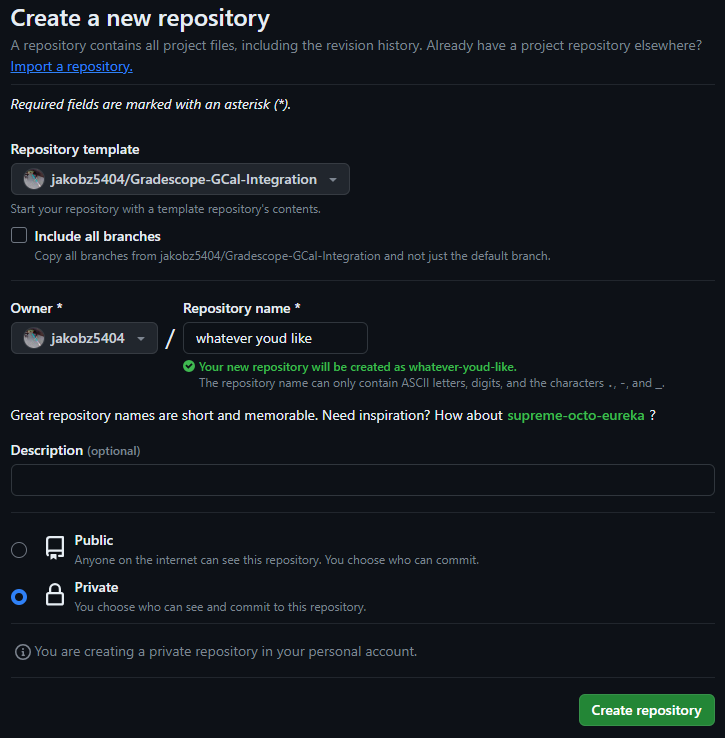
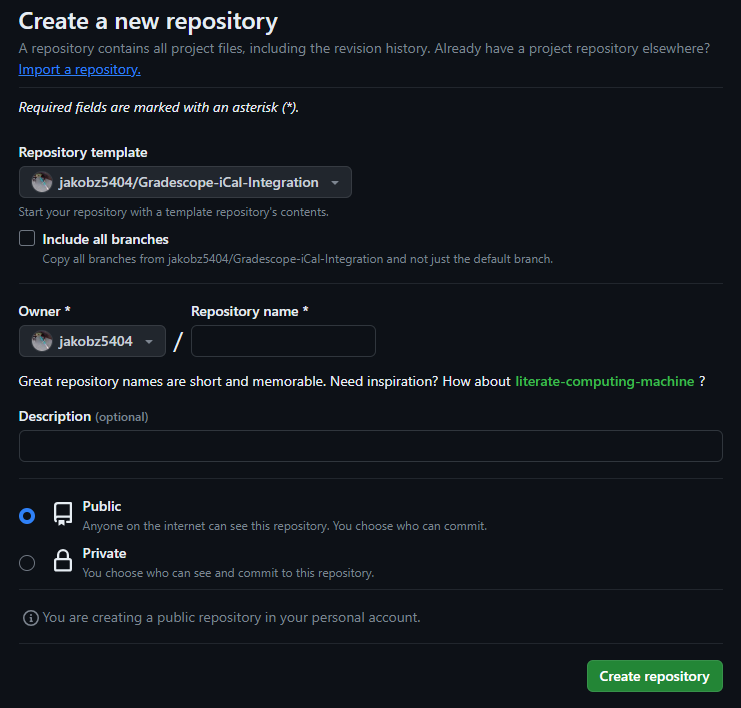
Upgraded to latest Gradescope-GCal-Integration version

diff --git a/README.md b/README.md
@@ -1,32 +1,30 @@
-## Gradescope iCalendar Integration
+# Gradescope iCalendar Integration
 
-All credit goes to [@tanjeffreyz](https://github.com/tanjeffreyz) for developing the web scraping service and most of the README. 
+All credit goes to [@tanjeffreyz](https://github.com/tanjeffreyz) for developing the web scraping service and most of the README. Also, [@zyonse](https://github.com/zyonse) has a similar program that you can find [here](https://github.com/tanjeffreyz/planit/pull/2). I don't know if it works.
+
 Because some online homework platforms such as Gradescope don't have an API for students (boo👎), web scraping is required to retrieve 
 information about assignments. **HTTP requests** are used alongside **Beautiful Soup** to perform this web scraping, 
-which is automatically executed every 6 hours (starting at 12am EST) using **GitHub Actions**. This time can be edited by changing the [cron value](https://docs.github.com/en/actions/using-workflows/events-that-trigger-workflows#schedule) in main.yml.
+which is automatically executed every 6 hours (starting at 12am EST) using **GitHub Actions**. This time can be edited by changing the [cron value](https://docs.github.com/en/actions/using-workflows/events-that-trigger-workflows#schedule) in main.yml. This will create an ics file which you can add to any major calendar service. The program will not add any completed assignments, as well as any assignments older than 180 days. Let me know if you want to be able to change this value.
 
 
 ## One-time Setup Instructions
 1. Log into GitHub or <a href="https://github.com/join"><b>create a new GitHub account</b></a> if you don't have one.
-## UNFINISHED
+
 2. Click <a href="#"><img src="docs/use_this_template.PNG" height="80px" style="vertical-align: text-top;"/></a> at the top of this page, 
 which should open the following prompt.
 <div align="center">
     <img src="docs/generate_prompt.PNG" width="60%" />
 </div>
 
-3. Enter a name for the new repository. <b>I advise you to set the repository to private, otherwise your course data will be able to be publically accessed.</b> If you don't care, you can set it to public.
-Then, click <b>Create Repo</b>.
+3. Enter a name for the new repository. <b>You will need to set it to public.</b> This is the only way that your calendar can access the data. All calendar links are public and work this way.
+Then, click <b>Create Repository</b>.
 
 4. Visit your new repository's secrets at the following link:
 ```
 https://github.com/YOUR_USERNAME/REPOSITORY_NAME/settings/secrets/actions
 ```
 
-
-
-
-
+## Configuration
 5. For each homework platform you use, create **two** new 
 <a href="https://docs.github.com/en/actions/security-guides/encrypted-secrets">GitHub secrets</a>: 
 one for your **username** and one for your **password**. A new secret can be created by clicking 
@@ -40,6 +38,7 @@ In the "Secret" field, enter either your username or password depending on the v
 </table>
 
 6. Now, go to the following link:
+
 ```
 https://github.com/YOUR_USERNAME/REPOSITORY_NAME/settings/actions
 ```
@@ -49,24 +48,24 @@ https://github.com/YOUR_USERNAME/REPOSITORY_NAME/settings/actions
     <img src="docs/workflow_perms.png" width="60%" />
 </div>
 
-8. Next, go to the following link:
-```
-https://github.com/YOUR_USERNAME/REPOSITORY_NAME/settings/pages
-```
+## Starting the program
+Using the file navigation in your repository's home page, go to `data/assignments.json`, **delete** the file, and click 
+<a href="#"><img src="docs/commit_changes.png" height="20px" /></a>.
+This will force the program to regenerate your calendar.
 
-9. In the dropdown menu under "Branch", select "github-pages" and click
-<a href="#"><img src="docs/save.png" height="20px" /></a>:
-<div align="center">
-    <img src="docs/github_pages_prompt.png" width="60%" />
-</div>
+This only needs to be done once, then the program should automatically update.
 
-10. Lastly, using the file navigation in your repository's home page, go to `data/assignments.js`, **delete** the file, and click 
-<a href="#"><img src="docs/commit_changes.png" height="20px" /></a>. 
+## Adding the assignments to your calendar
+There are 3 different ways you can add this to your calendar. 
+### Option 1: Manual
+The file is located at `data/assignments.ics`. Simply download it and import it to your calendar. This will not automatically update. However, if you do use this option, **you can set the repository to be private**. 
 
+### Option 2: URL
+The file is located at `data/assignments.ics`. On the top right, click the raw buttom. This will open the raw data. Then you can paste this url into the "import from URL" option in your calendar. 
+
+### Option 3: URL with forced refresh (Google Calendar Only)
+Google calendar can refresh slowly sometimes, but if you want to force it to refresh at a different rate you can use this script: https://script.google.com/home/projects/1BOk8MDLbLaHh6SwG1M1tsgNXjkcC-79LE0QoipRuTDxbO3fMVvqoROQD/edit
+
+## That's it!
+Your calendar should retreive the gradescope assignments and automatically add them to your calendar. 
 <br>
-
-That's it! <b>Planit</b> will start retrieving assignment information roughly once every hour and update your 
-personal planner at the link below, which you can visit (and bookmark!) on any of your devices.
-```
-https://YOUR_USERNAME.github.io/REPOSITORY_NAME
-```
